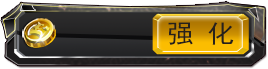
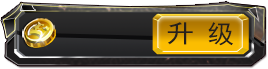
Evolution

Changed region(s): [[0.7761, 0.3188, 0.8955, 0.6667], [0.6269, 0.3188, 0.7463, 0.6667]]

diff --git a/src/com/fight2/scene/CardEvolutionScene.java b/src/com/fight2/scene/CardEvolutionScene.java
@@ -26,33 +26,33 @@ import com.fight2.entity.GameUserSession;
 import com.fight2.entity.engine.CardFrame;
 import com.fight2.entity.engine.F2ButtonSprite;
 import com.fight2.entity.engine.F2ButtonSprite.F2OnClickListener;
+import com.fight2.entity.engine.cardpack.CardEvolutionScrollDetectorListener;
 import com.fight2.entity.engine.cardpack.CardPack;
 import com.fight2.entity.engine.cardpack.CardPackPhysicsHandler;
 import com.fight2.entity.engine.cardpack.CardPackTouchArea;
 import com.fight2.entity.engine.cardpack.CardUpdateHandler;
-import com.fight2.entity.engine.cardpack.CardUpgradeScrollDetectorListener;
 import com.fight2.entity.engine.cardpack.MoveFinishedListener;
 import com.fight2.input.touch.detector.F2ScrollDetector;
 import com.fight2.util.CardUtils;
 import com.fight2.util.ResourceManager;
 import com.fight2.util.TextureFactory;
 
-public class CardUpgradeScene extends BaseCardPackScene {
+public class CardEvolutionScene extends BaseCardPackScene {
     private F2ScrollDetector scrollDetector;
-    private final Sprite[] cardGrids = new Sprite[7];
+    private final Sprite[] cardGrids = new Sprite[2];
 
     private CardPackPhysicsHandler physicsHandler;
-    private final Card[] inGridCards = new Card[7];
-    private final IEntity[] inGridCardSprites = new IEntity[7];
+    private final Card[] inGridCards = new Card[2];
+    private final IEntity[] inGridCardSprites = new IEntity[2];
 
     private final Rectangle cardZoom;
     private final CardPack cardPack;
-    private final float frameY = cameraHeight - TextureEnum.UPGRADE_FRAME.getHeight() + 5;
+    private final float frameY = cameraHeight - TextureEnum.EVOLUTION_FRAME.getHeight() + 5;
     private final Font hpatkFont;
     private final Text hpText;
     private final Text atkText;
 
-    public CardUpgradeScene(final GameActivity activity) throws IOException {
+    public CardEvolutionScene(final GameActivity activity) throws IOException {
         super(activity);
         hpatkFont = ResourceManager.getInstance().getFont(FontEnum.Default, 28);
         hpText = new Text(630, 295, hpatkFont, "+0123456789", vbom);
@@ -108,32 +108,29 @@ public class CardUpgradeScene extends BaseCardPackScene {
         this.attachChild(rechargeSprite);
         this.registerTouchArea(rechargeSprite);
 
-        final Sprite frameSprite = createALBImageSprite(TextureEnum.UPGRADE_FRAME, this.simulatedLeftX + 50, frameY);
+        final Sprite frameSprite = createALBImageSprite(TextureEnum.EVOLUTION_FRAME, this.simulatedLeftX + 50, frameY);
         this.attachChild(frameSprite);
         frameSprite.attachChild(hpText);
         frameSprite.attachChild(atkText);
 
-        final F2ButtonSprite upgradeButton = createUpgradeButton();
-        frameSprite.attachChild(upgradeButton);
-        this.registerTouchArea(upgradeButton);
+        final F2ButtonSprite evolutionButton = createEvolutionButton();
+        frameSprite.attachChild(evolutionButton);
+//        this.registerTouchArea(evolutionButton);
 
-        this.scrollDetector = new F2ScrollDetector(new CardUpgradeScrollDetectorListener(this, cardPack, cardZoom, inGridCards));
+        this.scrollDetector = new F2ScrollDetector(new CardEvolutionScrollDetectorListener(this, cardPack, cardZoom, inGridCards));
 
         final TextureEnum gridEnum = TextureEnum.PARTY_EDIT_FRAME_GRID;
-        final float gridWidth = gridEnum.getWidth() * 0.72f;
-        final float gridHeight = gridEnum.getHeight() * 0.72f;
-        final float gridStartX = 294;
+        final float gridWidth = 240;
+        final float gridHeight = 360;
+        final float gridStartX = 129;
         final float frameLeft = frameSprite.getX() - frameSprite.getWidth() * 0.5f;
-        float gridY = frameY + frameSprite.getHeight() + gridHeight * 0.5f - 12;
+        final float gridY = frameY + frameSprite.getHeight() * 0.5f + 5;
         final TextureFactory textureFactory = TextureFactory.getInstance();
         final ITextureRegion gridTexture = textureFactory.getAssetTextureRegion(gridEnum);
 
-        for (int gridIndex = 0; gridIndex < 7; gridIndex++) {
+        for (int gridIndex = 0; gridIndex < 2; gridIndex++) {
             final int frameIndex = gridIndex;
-            if (gridIndex % 2 == 1) {
-                gridY -= gridHeight + 5;
-            }
-            cardGrids[gridIndex] = new Sprite(frameLeft + gridStartX + gridWidth * ((gridIndex + 1) % 2), gridY, gridWidth, gridHeight, gridTexture, vbom) {
+            cardGrids[gridIndex] = new Sprite(frameLeft + gridStartX + (gridWidth - 15) * gridIndex, gridY, gridWidth, gridHeight, gridTexture, vbom) {
                 private IEntity movingCardSprite = null;
 
                 @Override
@@ -147,7 +144,7 @@ public class CardUpgradeScene extends BaseCardPackScene {
                             movingCardSprite = inGridCardSprites[frameIndex];
                             if (movingCardSprite != null) {
                                 movingCardSprite.setZIndex(100);
-                                CardUpgradeScene.this.sortChildren();
+                                CardEvolutionScene.this.sortChildren();
                             }
                             break;
                         case MotionEvent.ACTION_MOVE:
@@ -173,7 +170,6 @@ public class CardUpgradeScene extends BaseCardPackScene {
                                     public void run() {
                                         inGridCardSprites[frameIndex].detachSelf();
                                         inGridCardSprites[frameIndex] = null;
-
                                     }
 
                                 });
@@ -182,7 +178,7 @@ public class CardUpgradeScene extends BaseCardPackScene {
                                 movingCardSprite.setPosition(this);
                             }
                             movingCardSprite.setZIndex(IEntity.ZINDEX_DEFAULT);
-                            CardUpgradeScene.this.sortChildren();
+                            CardEvolutionScene.this.sortChildren();
                             movingCardSprite = null;
                             break;
 
@@ -192,14 +188,9 @@ public class CardUpgradeScene extends BaseCardPackScene {
             };
             this.attachChild(cardGrids[gridIndex]);
             this.registerTouchArea(cardGrids[gridIndex]);
+            cardGrids[gridIndex].setAlpha(0);
             cardGrids[gridIndex].setZIndex(10);
         }
-
-        final Sprite mainCardGrid = cardGrids[0];
-        mainCardGrid.setWidth(240);
-        mainCardGrid.setHeight(360);
-        mainCardGrid.setPosition(frameLeft + 125, frameY + frameSprite.getHeight() * 0.5f + 5);
-        mainCardGrid.setAlpha(0);
 
         final MoveFinishedListener moveFinishedListener = new MoveFinishedListener(cardPack, cardZoom, activity);
         physicsHandler = new CardPackPhysicsHandler(cardPack, cardZoom, moveFinishedListener);
@@ -236,9 +227,9 @@ public class CardUpgradeScene extends BaseCardPackScene {
         revert(true);
     }
 
-    private F2ButtonSprite createUpgradeButton() {
-        final F2ButtonSprite upgradeButton = createALBF2ButtonSprite(TextureEnum.UPGRADE_FRAME_BUTTON, TextureEnum.UPGRADE_FRAME_BUTTON, 467, 40);
-        upgradeButton.setOnClickListener(new F2OnClickListener() {
+    private F2ButtonSprite createEvolutionButton() {
+        final F2ButtonSprite evolutionButton = createALBF2ButtonSprite(TextureEnum.EVOLUTION_FRAME_BUTTON, TextureEnum.EVOLUTION_FRAME_BUTTON, 467, 40);
+        evolutionButton.setOnClickListener(new F2OnClickListener() {
             @Override
             public void onClick(final Sprite pButtonSprite, final float pTouchAreaLocalX, final float pTouchAreaLocalY) {
                 final Card mainCard = inGridCards[0];
@@ -281,7 +272,7 @@ public class CardUpgradeScene extends BaseCardPackScene {
 
             }
         });
-        return upgradeButton;
+        return evolutionButton;
     }
 
     private F2ButtonSprite createBackButton() {
@@ -302,7 +293,7 @@ public class CardUpgradeScene extends BaseCardPackScene {
         enhanceButton.setOnClickListener(new F2OnClickListener() {
             @Override
             public void onClick(final Sprite pButtonSprite, final float pTouchAreaLocalX, final float pTouchAreaLocalY) {
-                ResourceManager.getInstance().setCurrentScene(SceneEnum.CardEvolution);
+                ResourceManager.getInstance().setCurrentScene(SceneEnum.CardUpgrade);
             }
         });
         return enhanceButton;

diff --git a/src/com/fight2/entity/engine/cardpack/CardEvolutionScrollDetectorListener.java b/src/com/fight2/entity/engine/cardpack/CardEvolutionScrollDetectorListener.java
@@ -1,0 +1,109 @@
+package com.fight2.entity.engine.cardpack;
+
+import org.andengine.entity.IEntity;
+import org.andengine.entity.modifier.IEntityModifier.IEntityModifierListener;
+import org.andengine.entity.modifier.MoveModifier;
+import org.andengine.input.touch.TouchEvent;
+import org.andengine.input.touch.detector.ScrollDetector;
+import org.andengine.util.modifier.IModifier;
+
+import com.fight2.entity.Card;
+import com.fight2.entity.engine.CardFrame;
+import com.fight2.input.touch.detector.F2ScrollDetector;
+import com.fight2.scene.CardEvolutionScene;
+import com.fight2.util.SpriteUtils;
+
+public class CardEvolutionScrollDetectorListener extends CardPackScrollDetectorListener {
+    private final CardEvolutionScene cardPackScene;
+
+    public CardEvolutionScrollDetectorListener(final CardEvolutionScene cardPackScene, final CardPack cardPack, final IEntity cardZoom, final Card[] inGridCards) {
+        super(cardPackScene, cardPack, cardZoom, inGridCards);
+        this.cardPackScene = cardPackScene;
+    }
+
+    @Override
+    public void onScrollFinished(final ScrollDetector pScollDetector, final int pPointerID, final float pDistanceX, final float pDistanceY) {
+        if (cardPack.getChildCount() == 0 || !scrollable) {
+            return;
+        }
+        final F2ScrollDetector scrollDetector = (F2ScrollDetector) pScollDetector;
+        final TouchEvent touchEvent = scrollDetector.getSceneTouchEvent();
+        final float finishedY = touchEvent.getY();
+        final CardFrame focusedCardSprite = (CardFrame) cardZoom.getUserData();
+        if (focusedCardSprite.getScaleX() > 1.8 * CardUpdateHandler.SCALE_FACTOR) {
+            // Debug.e("focusedCard.getScaleX() > 1.8");
+            if (pPointerID == initPointerID && copyCard != null && focusedCardSprite.contains(initX, initY)
+                    && Math.abs(initDistanceY) > Math.abs(initDistanceX)) {
+
+                if (finishedY < SpriteUtils.toContainerOuterY(focusedCardSprite)) {
+                    revertCard(focusedCardSprite);
+                } else {
+                    IEntity cardGrid = null;
+                    int cardGridIndex = 0;
+                    final IEntity[] cardGrids = this.cardPackScene.getCardGrids();
+
+                    boolean hasPosition = false;
+                    for (int partyCardIndex = 0; partyCardIndex < inGridCards.length; partyCardIndex++) {
+                        final Card partyCard = inGridCards[partyCardIndex];
+                        if (partyCard == null) {
+                            hasPosition = true;
+                            cardGridIndex = partyCardIndex;
+                            break;
+                        }
+                    }
+
+                    final Card focusedCard = (Card) focusedCardSprite.getUserData();
+                    if (hasPosition) {
+                        scrollable = false;
+                        // Debug.e("Add card");
+
+                        inGridCards[cardGridIndex] = focusedCard;
+                        cardGrid = cardGrids[cardGridIndex];
+                        final IEntity addCardAvatar = cardPackScene.createCardSprite(focusedCard, 206, 309);
+                        addCardAvatar.setPosition(cardGrid);
+                        addCardAvatar.setUserData(copyCard.getUserData());
+                        this.cardPackScene.getInGridCardSprites()[cardGridIndex] = addCardAvatar;
+                        cardPackScene.onGridCardsChange();
+
+                        final IEntityModifierListener modifierListener = new UpgradeAddCardModifierListener(focusedCardSprite, focusedCard, addCardAvatar);
+                        final MoveModifier modifier = new MoveModifier(0.1f, copyCard.getX(), copyCard.getY(), cardGrid.getX(), cardGrid.getY(),
+                                modifierListener);
+                        cardPackScene.getActivity().runOnUpdateThread(new Runnable() {
+                            @Override
+                            public void run() {
+                                copyCard.clearEntityModifiers();
+                                copyCard.registerEntityModifier(modifier);
+                                copyCard = null;
+                            }
+                        });
+                    } else {
+                        scrollable = false;
+                        // Debug.e("NoPosition will revert");
+                        revertCard(focusedCardSprite);
+                        cardPackScene.alert("队列已满！");
+                    }
+                }
+            } else if (copyCard != null) {
+                // Debug.e("Directly revert");
+                scrollable = false;
+                revertCard(focusedCardSprite);
+            }
+        } else if (copyCard != null) {
+            // Debug.e("CoDirectly revert");
+            scrollable = false;
+            revertCard(focusedCardSprite);
+        }
+    }
+
+    protected class UpgradeAddCardModifierListener extends AddCardModifierListener {
+
+        protected UpgradeAddCardModifierListener(final CardFrame focusedCardSprite, final Card card, final IEntity avatar) {
+            super(focusedCardSprite, card, avatar);
+        }
+
+        @Override
+        public void onModifierFinished(final IModifier<IEntity> pModifier, final IEntity pItem) {
+            super.onModifierFinished(pModifier, pItem);
+        }
+    }
+}

diff --git a/src/com/fight2/entity/engine/BattlePartyFrame.java b/src/com/fight2/entity/engine/BattlePartyFrame.java
@@ -40,7 +40,7 @@ public class BattlePartyFrame extends Rectangle {
     private int atk;
     private int defence;
     private final Party party;
-    private final Sprite[] cardSprites = new Sprite[4];
+    private final IEntity[] cardSprites = new IEntity[4];
     private final boolean isBottom;
     private final GameActivity activity;
 
@@ -80,8 +80,7 @@ public class BattlePartyFrame extends Rectangle {
                 continue;
             }
 
-            final ITextureRegion texture = textureFactory.getTextureRegion(card.getImage());
-            final Sprite cardSprite = new Sprite(startX + 65 * i, 80, CARD_WIDTH, CARD_HEIGHT, texture, vbom);
+            final CardFrame cardSprite = new CardFrame(startX + 65 * i, 80, CARD_WIDTH, CARD_HEIGHT, card, activity);
             cardSprites[i] = cardSprite;
             final ITextureRegion textureFcs = textureFactory.getAssetTextureRegion(TextureEnum.BATTLE_CARD_SKILL_FCS);
             final Sprite cardSpriteFcs = new Sprite(CARD_WIDTH * 0.5f, CARD_HEIGHT * 0.5f, textureFcs, vbom);
@@ -142,7 +141,7 @@ public class BattlePartyFrame extends Rectangle {
     }
 
     public void useSkill(final int cardIndex, final OnFinishedCallback onFirstStepFinishedCallback, final OnFinishedCallback onFinishedCallback) {
-        final Sprite cardSprite = cardSprites[cardIndex];
+        final IEntity cardSprite = cardSprites[cardIndex];
         final float x = cardSprite.getX();
         final float fromY = cardSprite.getY();
         final float toY = (isBottom ? fromY + 40 : fromY - 30);

diff --git a/src/com/fight2/util/ResourceManager.java b/src/com/fight2/util/ResourceManager.java
@@ -23,6 +23,7 @@ import com.fight2.entity.engine.ProgressBar;
 import com.fight2.scene.ArenaListScene;
 import com.fight2.scene.ArenaScene;
 import com.fight2.scene.BaseScene;
+import com.fight2.scene.CardEvolutionScene;
 import com.fight2.scene.CardUpgradeScene;
 import com.fight2.scene.ChatScene;
 import com.fight2.scene.GuildScene;
@@ -212,6 +213,8 @@ public class ResourceManager {
             scenes.put(SceneEnum.Party, partyScene);
             final BaseScene cardUpgradeScene = new CardUpgradeScene(activity);
             scenes.put(SceneEnum.CardUpgrade, cardUpgradeScene);
+            final BaseScene cardEvolutionScene = new CardEvolutionScene(activity);
+            scenes.put(SceneEnum.CardEvolution, cardEvolutionScene);
             final BaseScene summonScene = new SummonScene(activity);
             scenes.put(SceneEnum.Summon, summonScene);
             final BaseScene arenaListScene = new ArenaListScene(activity);

diff --git a/src/com/fight2/constant/TextureEnum.java b/src/com/fight2/constant/TextureEnum.java
@@ -120,6 +120,10 @@ public enum TextureEnum {
     UPGRADE_FRAME("images/upgrade_frame.png", 746, 368),
     UPGRADE_FRAME_BUTTON("images/upgrade_frame_button.png", 268, 69),
 
+    // Card evolution scene images.
+    EVOLUTION_FRAME("images/evolution_frame.png", 746, 368),
+    EVOLUTION_FRAME_BUTTON("images/evolution_frame_button.png", 268, 69),
+
     // Summon scene images.
     SUMMON_BG("images/summon_backgroud.jpg", 1136, 640),
     SUMMON_SUMMON_BUTTON("images/summon_summon_button.jpg", 300, 90),

diff --git a/src/com/fight2/constant/SceneEnum.java b/src/com/fight2/constant/SceneEnum.java
@@ -5,6 +5,7 @@ public enum SceneEnum {
     Main,
     Party,
     CardUpgrade,
+    CardEvolution,
     Summon,
     ArenaList,
     Arena,
